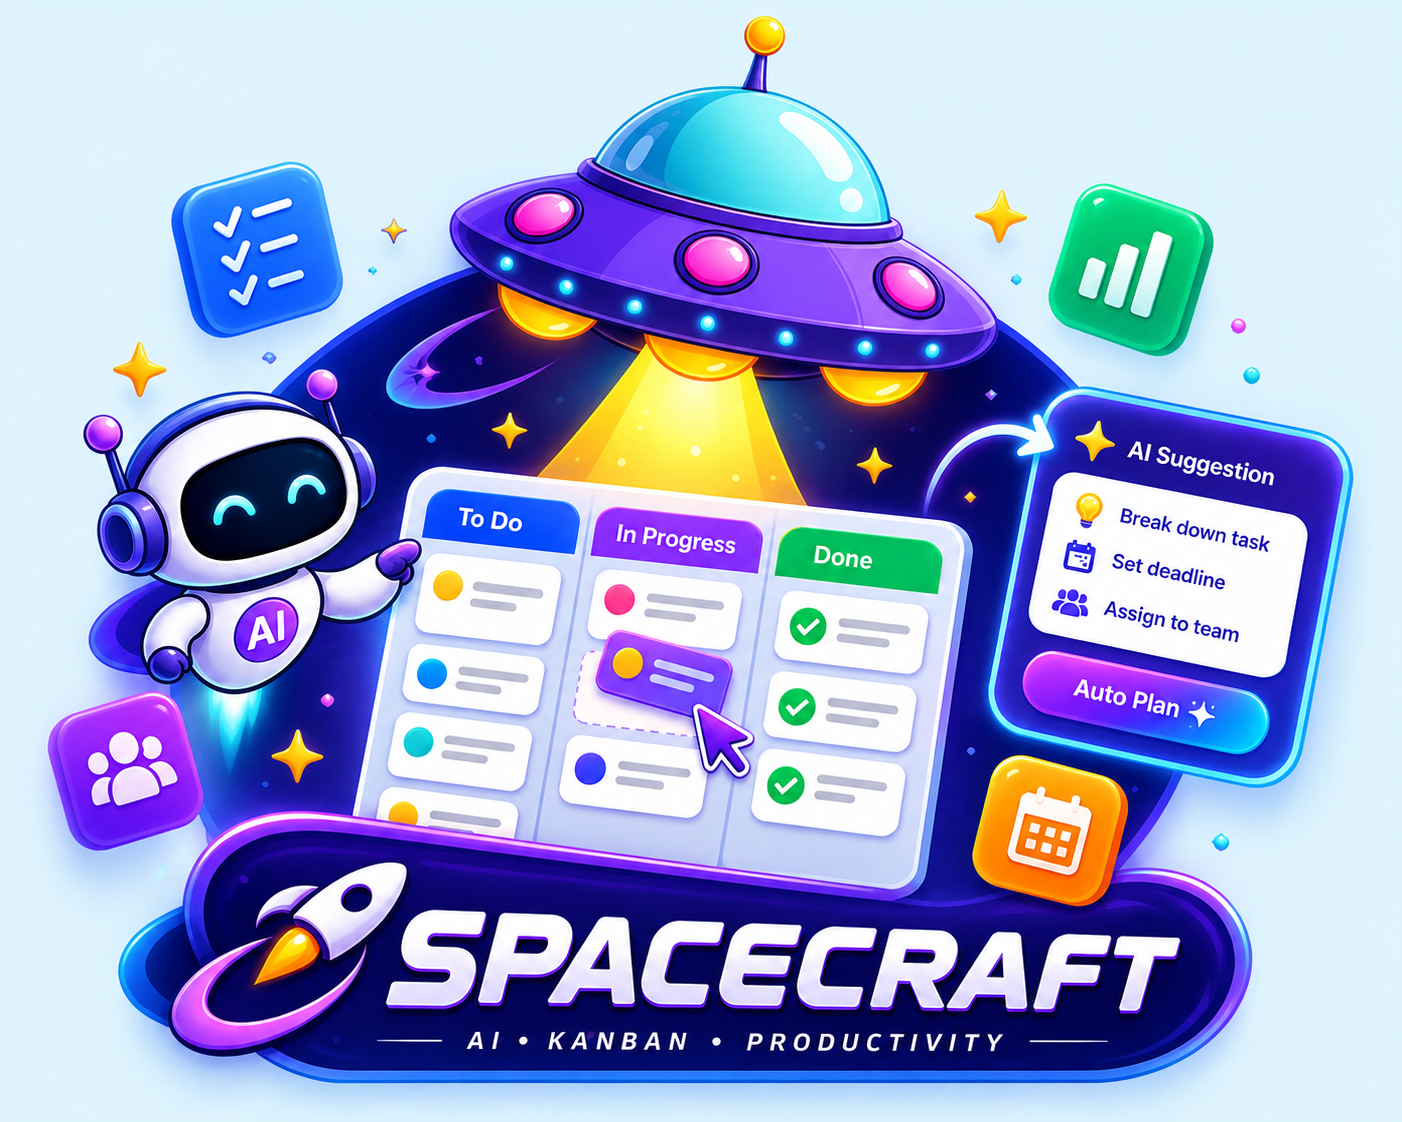
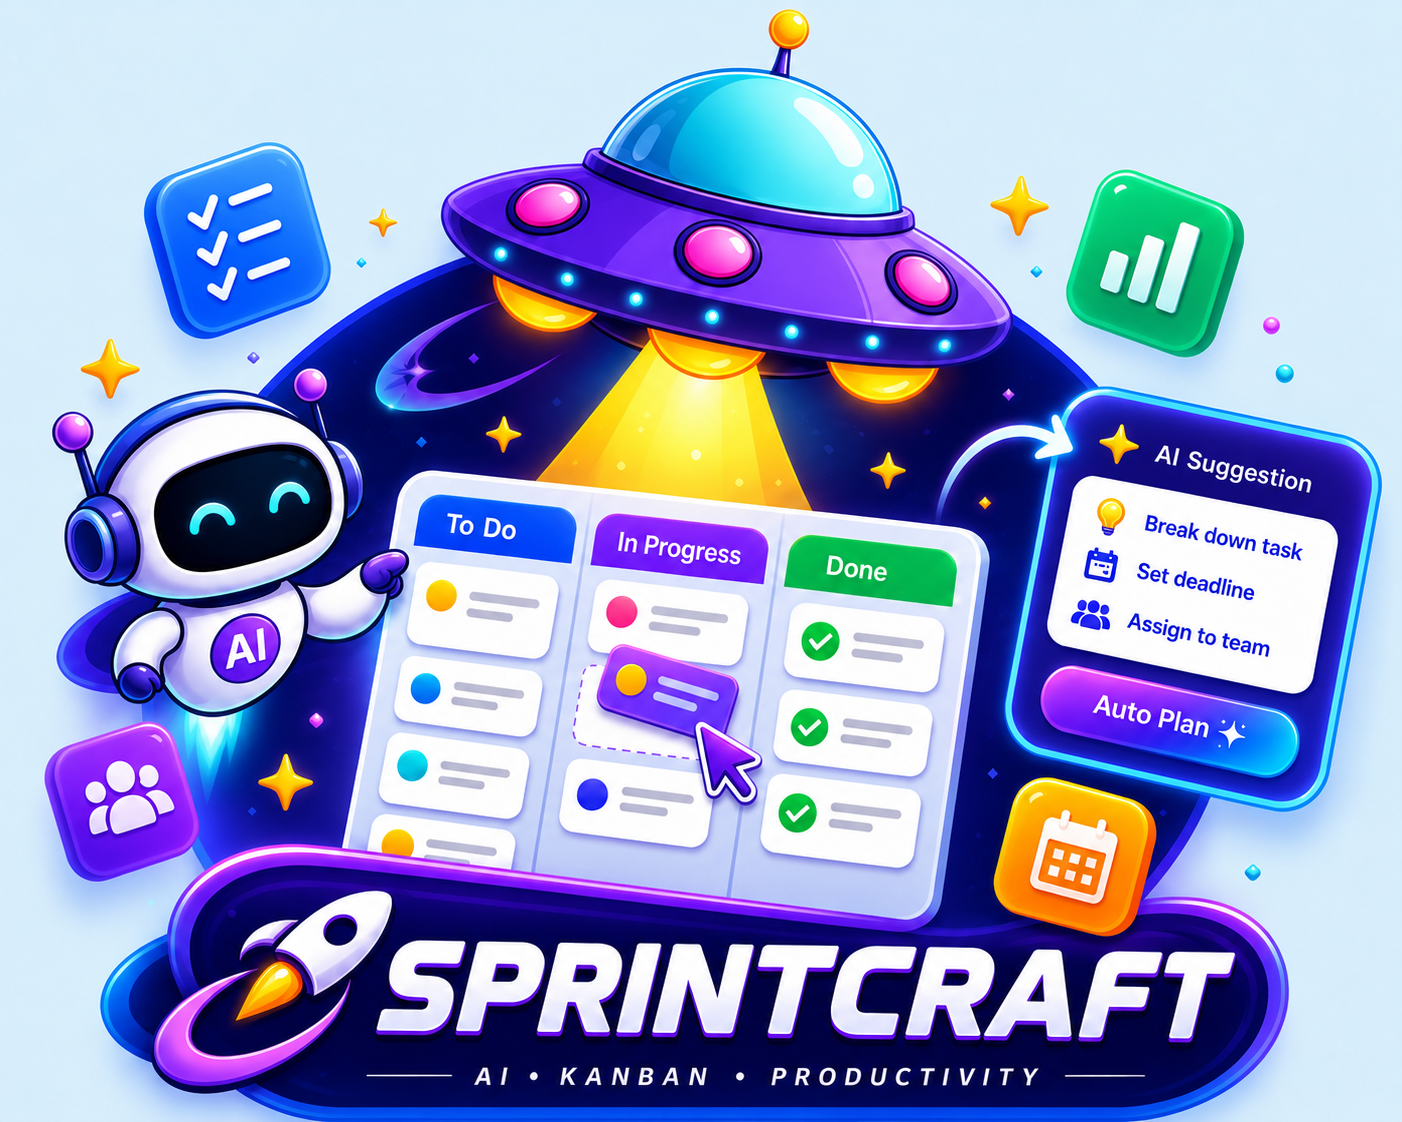
feat: updated configs

diff --git a/client/src/components/landing/Footer.jsx b/client/src/components/landing/Footer.jsx
@@ -32,7 +32,7 @@ const Footer = () => (
             <span className="brand-gradient flex h-9 w-9 items-center justify-center rounded-xl shadow-[var(--shadow-brand)]">
               <Zap className="h-4.5 w-4.5 fill-white text-white" />
             </span>
-            <span className="font-display text-lg font-bold tracking-tight">Spacecraft</span>
+            <span className="font-display text-lg font-bold tracking-tight">Sprint Craft</span>
           </Link>
           <p className="mt-4 max-w-xs text-sm leading-relaxed text-muted">
             The AI-native Kanban that turns goals into shipped work — planning less so your team ships more.
@@ -64,7 +64,7 @@ const Footer = () => (
 
       {/* bottom bar */}
       <div className="mt-12 flex flex-col items-center justify-between gap-3 border-t pt-6 text-sm text-muted sm:flex-row">
-        <span>© {new Date().getFullYear()} Spacecraft. All rights reserved.</span>
+        <span>© {new Date().getFullYear()} Sprint Craft. All rights reserved.</span>
         <a href="#" className="flex items-center gap-1.5 transition-colors hover:text-ink">
           <Layers className="h-4 w-4" /> Built with the PERN stack
         </a>

diff --git a/client/src/components/landing/Hero.jsx b/client/src/components/landing/Hero.jsx
@@ -108,7 +108,7 @@ const Hero = () => (
             Plan smarter, ship faster with AI
           </h1>
           <p className="mx-auto mt-5 max-w-xl text-[15px] leading-relaxed text-white/80 sm:text-lg">
-            Spacecraft turns a one-line goal into a prioritized backlog and keeps
+            Sprint Craft turns a one-line goal into a prioritized backlog and keeps
             your whole team moving in real time — so you plan less and ship
             more.
           </p>
@@ -178,7 +178,7 @@ const Hero = () => (
                 <span className="h-2.5 w-2.5 rounded-full bg-elevated" />
               </span>
               <span className="ml-2 text-xs font-medium text-muted">
-                Spacecraft · Sprint 14
+                Sprint Craft · Sprint 14
               </span>
               <span className="ml-auto inline-flex items-center gap-1 rounded-full bg-brand-50 px-2 py-0.5 text-[10px] font-semibold text-brand-700">
                 <span className="h-1.5 w-1.5 rounded-full bg-brand-500" /> Live

diff --git a/client/src/components/landing/HeroSplit.jsx b/client/src/components/landing/HeroSplit.jsx
@@ -24,7 +24,7 @@ const HeroSplit = () => (
           <span className="text-gradient">AI</span>
         </h1>
         <p className="mx-auto mt-5 max-w-xl text-[15px] leading-relaxed text-muted sm:text-lg lg:mx-0">
-          Spacecraft turns a one-line goal into a prioritized backlog and keeps
+          Sprint Craft turns a one-line goal into a prioritized backlog and keeps
           your whole team moving in real time — so you plan less and ship more.
         </p>
         <div className="mt-8 flex flex-col items-center justify-center gap-3 sm:flex-row lg:justify-start">

diff --git a/client/src/pages/Login.jsx b/client/src/pages/Login.jsx
@@ -47,7 +47,7 @@ const Login = () => {
               <Zap className="h-5 w-5 fill-white text-white" />
             </div>
             <span className="font-display text-lg font-bold tracking-tight">
-              Spacecraft
+              Sprint Craft
             </span>
           </Link>
 
@@ -113,7 +113,7 @@ const Login = () => {
       </div>
 
       <AuthAside
-        title="Welcome back to Spacecraft"
+        title="Welcome back to Sprint Craft"
         subtitle="Log in and pick up right where you and your team left off."
       />
     </div>

diff --git a/client/src/components/landing/Navbar.jsx b/client/src/components/landing/Navbar.jsx
@@ -37,7 +37,7 @@ const Navbar = () => {
           <div className="brand-gradient flex h-9 w-9 items-center justify-center rounded-xl shadow-[var(--shadow-brand)]">
             <Zap className="h-4.5 w-4.5 fill-white text-white" />
           </div>
-          <span className="font-display text-lg font-bold tracking-tight">Spacecraft</span>
+          <span className="font-display text-lg font-bold tracking-tight">Sprint Craft</span>
         </Link>
         <nav className="hidden items-center gap-1 md:flex">
           {navLinks.map(([label, href]) => (

diff --git a/client/src/components/auth/AuthAside.jsx b/client/src/components/auth/AuthAside.jsx
@@ -43,7 +43,7 @@ const AuthAside = ({
         <span className="flex h-9 w-9 items-center justify-center rounded-xl bg-white/15 ring-1 ring-inset ring-white/20">
           <Zap className="h-4.5 w-4.5 fill-white text-white" />
         </span>
-        <span className="font-display text-lg font-bold tracking-tight">Spacecraft</span>
+        <span className="font-display text-lg font-bold tracking-tight">Sprint Craft</span>
       </Link>
 
       <div className="relative z-10 flex w-full flex-col items-center justify-center px-8 text-white">

diff --git a/client/src/pages/Register.jsx b/client/src/pages/Register.jsx
@@ -38,7 +38,7 @@ const Register = () => {
           <div className="brand-gradient flex h-10 w-10 items-center justify-center rounded-2xl shadow-[var(--shadow-brand)]">
             <Zap className="h-5 w-5 fill-white text-white" />
           </div>
-          <span className="font-display text-lg font-bold tracking-tight">Spacecraft</span>
+          <span className="font-display text-lg font-bold tracking-tight">Sprint Craft</span>
         </Link>
 
         <div className="card rounded-3xl p-8 shadow-[var(--shadow-soft)]">

diff --git a/client/src/index.css b/client/src/index.css
@@ -3,7 +3,7 @@
 @custom-variant dark (&:where([data-theme=dark], [data-theme=dark] *));
 
 /* ----------------------------------------------------------------------------
-   Spacecraft - Kanban Board
+   Sprint Craft - Kanban Board
    Aesthetic: soft lavender off-white page · crisp white surfaces that float ·
               a single violet accent (iris → lavender gradient) · generous
               rounding · two soft layered shadows · confident display type.

diff --git a/client/src/pages/Settings.jsx b/client/src/pages/Settings.jsx
@@ -137,7 +137,7 @@ const Settings = () => {
                 <Zap className="h-5 w-5 fill-white text-white" />
               </div>
               <div>
-                <p className="text-sm font-semibold text-ink">Spacecraft</p>
+                <p className="text-sm font-semibold text-ink">Sprint Craft</p>
                 <p className="text-xs text-muted">
                   AI-powered Kanban · {resolved === "dark" ? "Dark" : "Light"} theme
                 </p>

diff --git a/client/src/components/landing/AISpotlight.jsx b/client/src/components/landing/AISpotlight.jsx
@@ -48,7 +48,7 @@ const AISpotlight = () => (
             AI that does the busywork
           </h2>
           <p className="mt-4 max-w-md leading-relaxed text-white/80">
-            Stop staring at an empty board. Spacecraft's AI plans, breaks down
+            Stop staring at an empty board. Sprint Craft's AI plans, breaks down
             and reports on your work so you can focus on shipping.
           </p>
           <ul className="mt-7 space-y-3.5">

diff --git a/client/src/components/layout/Sidebar.jsx b/client/src/components/layout/Sidebar.jsx
@@ -65,7 +65,7 @@ const Sidebar = ({ collapsed, onToggle, onCreateBoard }) => {
         </div>
         {!collapsed && (
           <span className="flex-1 truncate font-display text-[17px] font-bold tracking-tight text-ink">
-            Spacecraft
+            Sprint Craft
           </span>
         )}
         {!collapsed && (

diff --git a/client/index.html b/client/index.html
@@ -5,7 +5,7 @@
     <link rel="icon" type="image/png" href="/ufo.png" />
     <link rel="apple-touch-icon" href="/ufo.png" />
     <meta name="viewport" content="width=device-width, initial-scale=1.0" />
-    <title>Spacecraft</title>
+    <title>Sprint Craft</title>
     <script>
       (function () {
         try {
